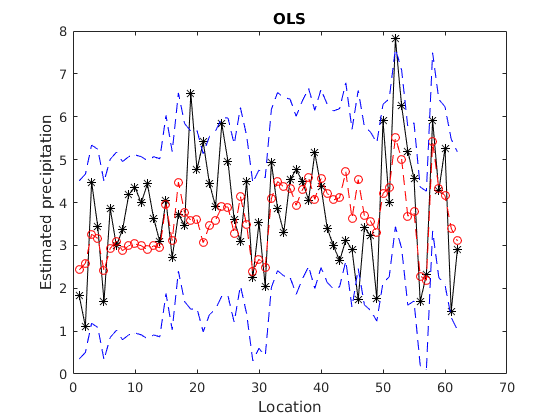
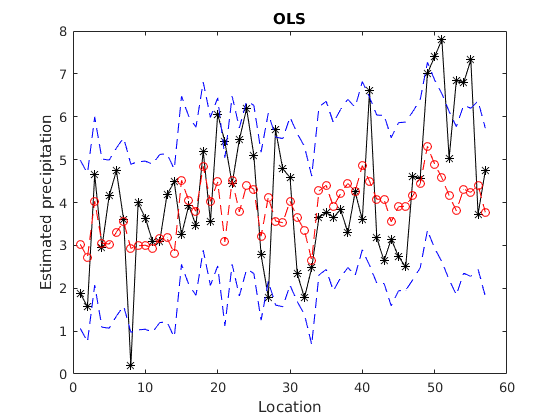
big update

diff --git a/ha2/proj2.tex b/ha2/proj2.tex
@@ -28,6 +28,9 @@
 \def\bnu{{\boldsymbol \nu}}
 \def\bmu{{\boldsymbol \mu}}
 \def\sigmaeps{{\sigma_{\epsilon}}}
+\def\bxmode{{\hat \bx^{(0)}}}
+\def\txmode{{\tilde \bx_{\mathrm{mode}}}}
+\def\txsample{{\tilde \bx_{\mathrm{sample}}}}
 
 %opening
 \title{Home Assignment - 2}
@@ -41,6 +44,7 @@
 
 
 \section{The Data-Set and Model}
+\label{sec:model}
 The data consists of precipitation for the month of June, 2011 for 553 locations in the Parana district of Brazil. In addition, we are given the co-ordinates (latitude, longitude), elevation and distance to the coast are provided. The data is positive (since it is the accumulated precipitation) and the following model is suggested.
 
 \begin{itemize}
@@ -74,9 +78,10 @@ The data consists of precipitation for the month of June, 2011 for 553 locations
 \section{Theory}
 \subsection{Observation Log-Likelihood}
 The data model is given by
-\begin{equation*}
+\begin{equation}
  p(y_i|z_i) = \frac{y_i^{b-1}}{\Gamma(b)} (be^{-z_i})^b \exp (-by_ie^{-z_i}).
-\end{equation*}
+ \label{eq:datamodel}
+\end{equation}
 Thus, the observation log-likelihood $\log p(y_i|z_i)$ can be written as
 \begin{equation*}
  f(z_i) \triangleq \log p(y_i|z_i) = (b-1) \log y_i - \log \Gamma(b) + b \log (b) - b z_i - b y_i e^{-z_i},
@@ -117,6 +122,13 @@ The second derivative w.r.t $\btx$ of (\ref{eq:gx}) can simply be written as
 \begin{equation}
  g''(\btx) = -(\btQ - \btA^T \bH_f^{(0)} \btA).
 \end{equation}
+
+Furthermore, comparing equation (\ref{eq:gx}) to a canonical multivariate Gaussian log-likelihood function, the Gaussian approximation of $p(\btx|\by, \btheta)$ [slide 32 of lecture 7] can be obtained as,
+\begin{align}
+ p_G(\btx|\by, \btheta) &\stackrel{\in}{\sim} N(\bmu_{x|y}, \bQ_{x|y}^{-1}) \nonumber \\
+ \bmu_{x|y} &= \bQ_{x|y}^{-1} \bb_{x|y}
+ \label{eq:pxygauss}
+\end{align}
 
 \section{Estimation}
 The observations are divided into estimation and validation data-sets wherein approximately 10\% of the observations are set aside for validation.
@@ -172,49 +184,21 @@ $\hat \beta_3$ & 0.0006 & 0.0001 \\
 \label{tab:olsparest}
 \end{table}
 
-The OLS estimate of the precipitation at the validation locations is simply given by $\hat \by_v = \exp \left( \bB_v \hat \bbeta \right)$, where $\bB_v$ is the covariate matrix for the validation locations. Furthermore, the variance of the estimates is given by $\bV(\hat \by_v) = \sigmaeps^2 (\bB_v (\bB_v^T\bB_v)^{-1} \bB_v^T + 1)$. The 95\% confidence intervals (Gaussian) are given by $\hat \by_v \pm 1.96 \left( \bV(\hat \by_v) \right)^{1/2}$.
+The OLS estimate of the expected value of precipitation at the validation locations is simply given by $\bE(\hat \by_v) = \hat \bmu_v = \exp \left( \bB_v \hat \bbeta \right)$, where $\bB_v$ is the covariate matrix for the validation locations. Furthermore, the variance of the expected precipitation is given by $\bV(\hat \bmu_v) = \sigmaeps^2 (\bB_v (\bB_v^T\bB_v)^{-1} \bB_v^T)$. The 95\% confidence intervals (Gaussian) are given by $\hat \bmu_v \pm 1.96 \left( \bV(\hat \bmu_v) \right)^{1/2}$.
 
 The OLS estimate for the validation locations, along with the 95\% confidence intervals are plotted in figure~\ref{fig:valid} (a).
 \begin{figure}[ht]
 \centering
-  \subfloat[]{{\includegraphics[width=5cm, height=5cm]{ols_valid.png} }}%
+  \subfloat[]{{\includegraphics[width=5cm, height=4.5cm]{ols_valid.png} }}%
   \qquad
-  \subfloat[]{{\includegraphics[width=5cm, height=5cm]{gmrf_valid.png} }}%
-  \caption{(a): OLS estimate of precipitation at the validation locations. Black: Truth, Red: OLS estimate, Blue: 95\% confidence intervals. (b): GMRF estimate of precipitation at the validation locations. Black: Truth, Red: OLS estimate, Blue: 95\% confidence intervals.}
+  \subfloat[]{{\includegraphics[width=5cm, height=4.5cm]{gmrf_valid.png} }}%
+  \caption{(a): OLS estimate of expected precipitation at the validation locations. (b): GMRF estimate of precipitation at the validation locations.\\ Black: Truth, Red: estimate of expected precipitation, Blue: 95\% confidence intervals.}
 \label{fig:valid}
 \end{figure}
 
-\begin{verbatim}
-
-sigma2 = 0.1069
-
-theta =
-
-    0.5522
-    0.0205
-    2.5509
-
-exp(theta)
-
-ans =
-
-    1.7370
-    1.0207
-   12.8187
-   
->> th_se
-
-th_se =
-
-    1.0012
-    1.0004
-    1.0003
-\end{verbatim}
-
 \subsection{Gaussian Markov Random Field (GMRF)}
-Model is as described in section .
 
-We begin by estimating the parameters. The parameter estimates are obtained by maximizing the posterior $p(\btheta|\by)$. That is,
+We begin by estimatating the parameters of the GMRF model described in section \ref{sec:model} for which we require the posterior $p(\btheta|\by)$. The parameter estimates are obtained as,
 \begin{equation*}
  \hat \btheta = \arg\max_{\btheta} \, p(\btheta|\by)
 \end{equation*}
@@ -223,14 +207,57 @@ Since we assume $p(\btheta) \propto 1$ (``flat-prior''), we may express the post
  p(\btheta|\by) \propto p(\by|\btheta) &= \frac{p(\by|\btx, \btheta) p(\btx|\btheta)}{p(\btx|\by, \btheta)} \\
  &= \frac{p(\by|\btx, \btheta) p(\btx|\btheta)}{p_G(\btx|\by, \btheta)}
 \end{align*}
+where $p_G(\btx|\by, \btheta)$ is the Gaussian approximation given by equation (\ref{eq:pxygauss}), and $p(\by|\btx, \btheta)$ is given by the data model of equation (\ref{eq:datamodel})
+\begin{equation*}
+ p(\btx|\btheta) \propto |\bQ|^{1/2} \exp \left(-\frac{1}{2} \btx^T \bQ \btx \right).
+\end{equation*}
+We are interested in a good approximation around the most likely values of the posterior distribution [slide 33, lecture 7], which is the mode $\hat \bx^{(0)}$. We note that by picking $\btx = \bxmode$, the log-posterior can be written as
+\begin{equation}
+ \log p(\btheta|\by) = \sum_i f(z_i) + \frac{1}{2} \log\left( |\bQ| \right) - \frac{1}{2} \hat \bx^{(0)^T} \bQ \bxmode - \frac{1}{2} \log |\bQ_{x|y}|
+ \label{eq:logpost}
+\end{equation}
+The parameter estimates $\hat \btheta$ are obtained by maximizing the log-posterior (\ref{eq:logpost}) (or by minimizing the negative log-posterior). The variance of the estimated parameters are given by the diagonal elements of the negative inverse Hessian ($\bf H^{-1}$) of the log-likelihood (same as log-posterior in our case). The obtained estimates and standard errors are tabulated in table \ref{tab:gmrfparest}.	
+\begin{table}[H]
+\centering
+\begin{tabular}{lll}
+\hline
+{\bf $\hat \btheta$} & {$\exp(\hat \btheta)$} & {\bf SE} (of $\exp(\hat \theta)$) \\
+\hline
+$\hat \theta_1 =  0.8585$ & $\hat \tau = 2.3595 $ & 1.0017 \\
+$\hat \theta_2 = -1.3448$ & $\hat \kappa^2 = 0.2606 $ &  1.0006 \\
+$\hat \theta_3 = 2.6496$ & $\hat b = 14.1485$ & 1.0005 \\
+\hline
+\end{tabular}
+\caption{GMRF parameter estimate and standard errors.}
+\label{tab:gmrfparest}
+\end{table}
 
+The reconstruction of the latent field ($\txmode$) is extracted at the last iteration of the maximization of the log-likelihood (minmization of the negative log-likelihood). The expected precipitation at the validation locations is given by $\bE(\hat \by_v) = \exp(\btA_v \txmode)$. The variance (and the standard error, SE) of the latent field (log precipitation) is calculated by simulating (100 times) from a Gaussian distribution with precision matrix $\bQ_{x|y}$. The following steps are used to achieve this:
+\begin{enumerate}
+ \item Compute the Cholesky-factorization $\bQ_{x|y} = R\cdot R^T$.
+ \item Sample $z \in N(0,\mathbb{I})$.
+ \item Solve for $v$ such that $R^T v = z$. Then, $v \in N(0,\bQ_{x|y}^{-1})$.
+\end{enumerate} 
+For the validation locations, the expected precipitation and the corresponding confidence intervals are plotted in figure~\ref{fig:valid} (b).
+
+The same procedure is applied to determine the mean precipitation at all the locations in the mesh (2884 locations). The estimated mean precipitation and the corresponding standard error are plotted in figure~\ref{fig:mesh}
 \begin{figure}[ht]
 \centering
-  \subfloat[]{{\includegraphics[width=5cm, height=4cm]{mesh_pred.png} }}%
+  \subfloat[]{{\includegraphics[width=5cm, height=4cm]{mesh_mean_obs.png} }}%
   \qquad
-  \subfloat[]{{\includegraphics[width=5cm, height=4cm]{mesh_se.png} }}%
-  \caption{(a): Prediction (mesh), (b): SE of predictions.}
+  \subfloat[]{{\includegraphics[width=5cm, height=4cm]{mesh_mean_obs_se.png} }}%
+  \caption{(a): Mean precipitation for mesh locations. (b): SE of mean precipitation for mesh locations.}
 \label{fig:mesh}
+\end{figure}
+
+To construct the uncertainty for the predictions however, we sample $\txsample$ from the Gaussian approximation of its posterior $p_G(\btx|\by, \btheta)$. The precipitation observations are sampled 100 times according to the data model as $\Gamma(b, b^{-1} \exp(\btA \txsample))$. The median precipitation and the standard error are plotted in figure \ref{fig:meshpred}.
+\begin{figure}[ht]
+\centering
+  \subfloat[]{{\includegraphics[width=5cm, height=4cm]{median_sim_y.png} }}%
+  \qquad
+  \subfloat[]{{\includegraphics[width=5cm, height=4cm]{se_sim_y.png} }}%
+  \caption{(a): Median precipitation (prediction). (b): SE of the predictions.}
+\label{fig:meshpred}
 \end{figure}
 \section{Conclusions}
 

diff --git a/ha2/proj2_main.m b/ha2/proj2_main.m
@@ -64,33 +64,37 @@ V_Y_ols = exp(sum((Bobs(Ivalid,:)*Sigma).*Bobs(Ivalid,:),2));
 figure, plot(Y(Ivalid),'k-*');
 hold on;
 plot(Y_ols,'r--o');
-plot(Y_ols - 1.96*sqrt(V_Y_ols+sigma2),'b--');
-plot(Y_ols + 1.96*sqrt(V_Y_ols+sigma2),'b--');
+plot(Y_ols - 1.96*sqrt(V_Y_ols),'b--');
+plot(Y_ols + 1.96*sqrt(V_Y_ols),'b--');
 xlabel('Location')
 ylabel('Estimated precipitation')
 title('OLS')
 
 %compare it to GMRF
-Y_gmrf = exp(ABobs(Ivalid,:)*x_mode);
 %for conf intervals, sample from Q_xy
 R_xy = chol(Q_xy);
 z = randn(size(R_xy,1),100);
 v = R_xy\z;
-vvar = var(v'); vvalid = vvar(Ivalid)';
+Y_gmrf = exp(ABobs*(repmat(x_mode,1,100)+v));
+Y_gmrf_mean = mean(Y_gmrf,2);
+Y_gmrf_se = std(Y_gmrf,0,2);
 
 figure, plot(Y(Ivalid),'k-*');
 hold on;
-plot(Y_gmrf,'r--o');
-plot(Y_gmrf - 1.96*sqrt(vvalid+sigma2),'b--');
-plot(Y_gmrf + 1.96*sqrt(vvalid+sigma2),'b--');
+plot(Y_gmrf_mean(Ivalid),'r--o');
+plot(Y_gmrf_mean(Ivalid) - 1.96*Y_gmrf_se(Ivalid),'b--');
+plot(Y_gmrf_mean(Ivalid) + 1.96*Y_gmrf_se(Ivalid),'b--');
 xlabel('Location')
 ylabel('Estimated precipitation')
 title('GMRF')
 
-Y_mesh_gmrf = exp(ABall*x_mode);
+%calculate mean precipitation for mesh locations
+Y_mesh_gmrf = exp(ABall*(repmat(x_mode,1,100)+v));
+Y_mesh_gmrf_mean = mean(Y_mesh_gmrf,2);
+Y_mesh_gmrf_se = std(Y_mesh_gmrf,0,2);
 %plot the mesh predictions and standard error.
 figure,
-scatter(mesh.loc(:,1), mesh.loc(:,2), 15, Y_mesh_gmrf, ..., 
+scatter(mesh.loc(:,1), mesh.loc(:,2), 15, Y_mesh_gmrf_mean, ..., 
     'filled', 'markeredgecolor', 'k')
 hold on
 plot(Border(:,1),Border(:,2),'-',...
@@ -98,7 +102,29 @@ plot(Border(:,1),Border(:,2),'-',...
 colorbar; hold off; axis tight
 
 figure,
-scatter(mesh.loc(:,1), mesh.loc(:,2), 15, sqrt(vvar(1:end-4)'+sigma2), ..., 
+scatter(mesh.loc(:,1), mesh.loc(:,2), 15, Y_mesh_gmrf_se, ..., 
+    'filled', 'markeredgecolor', 'k')
+hold on
+plot(Border(:,1),Border(:,2),'-',...
+  Border(1034:1078,1),Border(1034:1078,2),'-')
+colorbar; hold off; axis tight
+
+%simulate x_mode from p(x|y,theta) (Gaussian approx) N(0,Q_xy^-1)
+x_mode_sim = repmat(x_mode,1,100) + v;
+zz = exp(ABall*x_mode_sim);
+sim_y = gamrnd(b,zz/b);
+var_sim_y = var(sim_y,0,2);
+median_sim_y = median(sim_y,2);
+
+figure,
+scatter(mesh.loc(:,1), mesh.loc(:,2), 15, median_sim_y, ..., 
+    'filled', 'markeredgecolor', 'k')
+hold on
+plot(Border(:,1),Border(:,2),'-',...
+  Border(1034:1078,1),Border(1034:1078,2),'-')
+colorbar; hold off; axis tight
+figure,
+scatter(mesh.loc(:,1), mesh.loc(:,2), 15, sqrt(var_sim_y), ..., 
     'filled', 'markeredgecolor', 'k')
 hold on
 plot(Border(:,1),Border(:,2),'-',...
